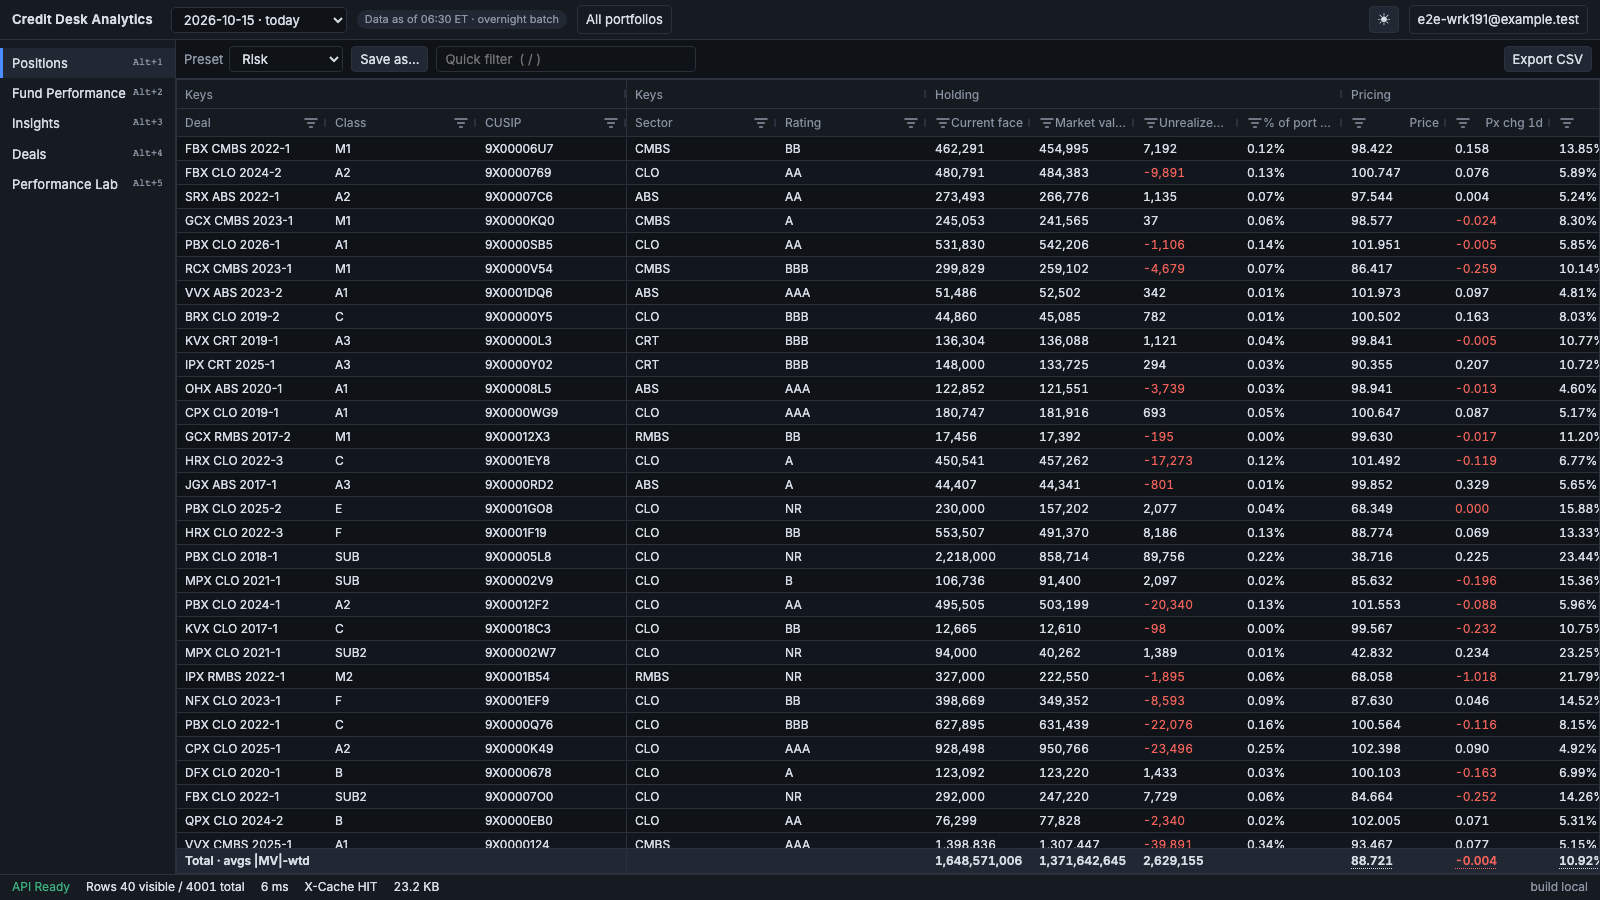
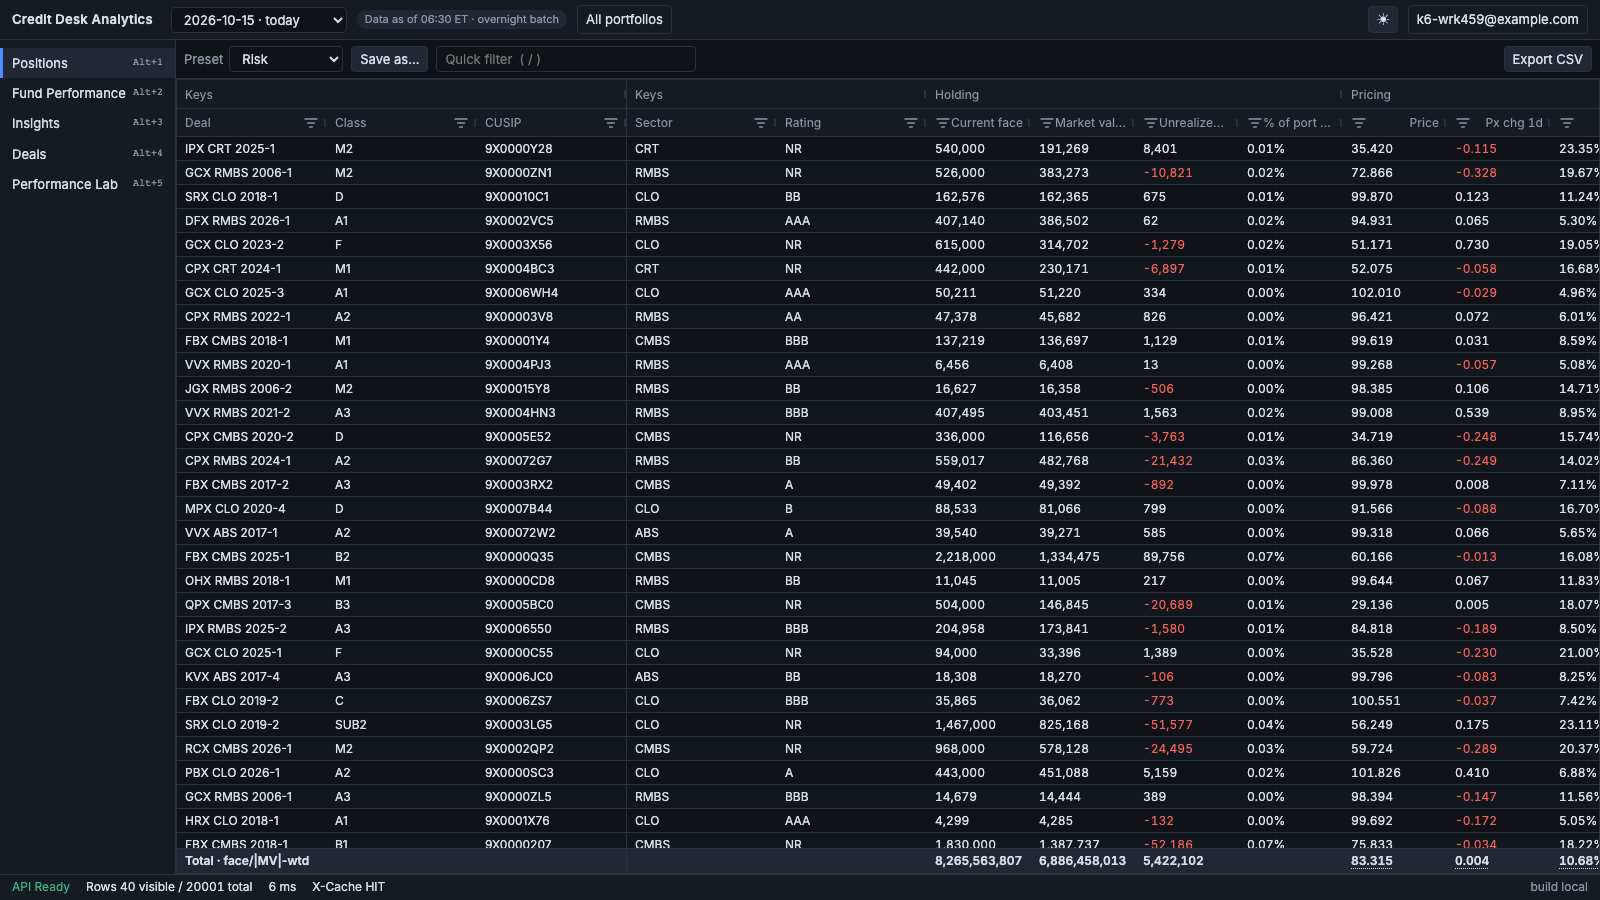
docs(adr): ADR-0006 addendum for face-weighted prices, README §6/§8/§10/§17 (#459)
The second stored weight, measured: perf/explain-summary-face-weight.sql
(evidence at scale 1.0) and interleaved k6 runs, main vs branch. README §8
states the price weighting and the unknown-aggregation fallback, §6 P1 the
new Total-row label, §10 the re-measured MISS, §17 the follow-up row.
Positions screenshots (dark, light) re-rendered with the Total-cell tooltip.

diff --git a/README.md b/README.md
@@ -296,7 +296,7 @@ Every page lists: **user story**, **API contract**, **SQL approach**, **front-en
 - AG Grid Community, `rowModelType: 'infinite'`, `cacheBlockSize: 200`, `maxBlocksInCache: 50`, `blockLoadDebounceMillis: 100`.
 - **Column virtualization on** (the default; never disable it).
 - `getRowId` = position_id.
-- Pinned left: deal_name, class, cusip. A pinned **bottom summary row**, labelled `Total · avgs |MV|-wtd`: its SUM cells are net (signed) and its averages are gross, weighted by \|market value\| (§8). Each Total cell's tooltip and each column header's tooltip name the aggregation (#191). Per-leg (long/short) and face-weighted totals are deferred to a later P3.
+- Pinned left: deal_name, class, cusip. A pinned **bottom summary row**, labelled `Total · face/|MV|-wtd`: its SUM cells are net (signed) and its averages are gross. Prices are weighted by \|current face\| (the par-weighted price), and every other average by \|market value\| (§8, #459). Each Total cell's tooltip and each column header's tooltip name the aggregation (#191). The label follows the served catalog: while it still weighs prices by \|MV\| (before #459's catalog update reaches a database), it reads `Total · avgs |MV|-wtd`. Per-leg (long/short, gross/net MV) totals are out of scope (Leo, 2026-10-16).
 - **Column presets:** per-user saved column state (order, width, visibility, pinned, sort, filters), loaded before the first request. Several named presets per user ("Risk", "Surveillance", "Scenarios", "All").
 - **Only the displayed columns are requested.** When the displayed column set changes (show/hide or preset switch), purge the infinite cache and re-request. For horizontal scrolling inside the displayed set, no request is needed.
 - **Quick filter box:** debounced at 300 ms, with `distinctUntilChanged` + `switchMap`, so a stale request is cancelled and can never overwrite a newer one.
@@ -342,8 +342,8 @@ Accept: application/json            (or application/x-msgpack, see ADR-0007)
 - **Whitelist:** column ids, sort ids and filter ids are resolved through the column catalog. Unknown ids are **dropped**, never concatenated into SQL. Every value is a parameter.
 - `position_id` is always included (the row id) and always appended to `ORDER BY` as a **deterministic tie-breaker** (otherwise offset paging duplicates or skips rows).
 - Block size is clamped to ≤ 500 rows, and displayed columns to ≤ 250.
-- **One round trip:** the page query and the totals query (`COUNT(*)` + per-column aggregates from the catalog: SUM, or |market value|-weighted average) are sent together (`QueryMultipleAsync` or a single batch).
-- **Weighting rule:** weights are `ABS(market_value)`; see §8 (#131).
+- **One round trip:** the page query and the totals query (`COUNT(*)` + per-column aggregates from the catalog: SUM, a |current face|-weighted average for prices, or a |market value|-weighted average) are sent together (`QueryMultipleAsync` or a single batch).
+- **Weighting rule:** prices weigh by `ABS(current_face)`, every other average by `ABS(market_value)`; see §8 (#131, #459).
 - **Paging:** `OFFSET … FETCH` by default. ADR-0008 evaluates keyset paging, which the Infinite Row Model's random-access jumps make harder, and records the measured trade-off at deep offsets.
 - **Caching:** the key is (as-of, canonicalized query JSON, user's portfolio entitlements). Entries live until the next as-of date. Support `If-None-Match` → **304**.
 - The `CancellationToken` flows to Npgsql, so scrolling past a block cancels its query. The command timeout is 10 s.
@@ -587,7 +587,7 @@ The **website is public** (anyone can reach the login page). The **data is not**
     - `ExecuteUpdateAsync` / `ExecuteDeleteAsync` for set-based writes.
     - Scoped lifetime per request; a factory for anything parallel or singleton-owned (no captive dependencies).
   - **Every async call takes the request's `CancellationToken`.** No `.Result`, `.Wait()` or `async void`.
-  - **Money is `decimal`** (`numeric` in SQL). Rounding happens only at the display edge. Weighted averages weigh each row by `ABS(market_value)`, the position's size, so shorts can't cancel longs (#131). Rows where the measure is `NULL` don't count toward the weight, and zero or no weight returns `null`, never `NaN`. `NaN` can't reach the summary: `market_value` and every column the summary sums or weights reject `'NaN'` at write time (CHECK constraints `ck_snapshot_<column>_not_nan` on the `numeric` columns, #192), the `float8` ones reject `'NaN'` and `±'Infinity'` (`ck_snapshot_<column>_finite`, #304), and a test fails if a new summed or weighted catalog column isn't guarded. SUM columns (`market_value`, `dv01`, `cs01`, `pnl_*`, …) stay signed (net). So the summary row mixes net sums with gross averages, and the grid labels it that way (§6 P1, #191).
+  - **Money is `decimal`** (`numeric` in SQL). Rounding happens only at the display edge. Weighted averages weigh each row by the position's size, so shorts can't cancel longs (#131): `ABS(market_value)` for every average except prices, and `ABS(current_face)` for prices (`Aggregation.WeightedByCurrentFace`: `price`, `book_price`, the `price_chg_*` changes, the 100 `scn_*` scenario prices, `worst_case_price`, `best_case_price` and `scenario_range`, #459). An \|MV\|-weighted price is Σp²f / Σpf; the face-weighted one is the par-weighted price desks quote. Both weights are stored generated `float8` columns (`weight_f8`, `face_weight_f8`), so the summary stays a plain parallel aggregate (ADR-0006). The same rules apply to both: rows where the measure is `NULL` don't count toward the weight, a `NULL` or zero weight counts for nothing, and zero or no weight returns `null`, never `NaN`. The API reads each column's aggregation from `app.column_catalog`; a name the running build doesn't know falls back to the \|MV\|-weighted average with a warning, so a catalog change that lands before the new app version can't fail `/api/meta`. `NaN` can't reach the summary: `market_value` and every column the summary sums or weights reject `'NaN'` at write time (CHECK constraints `ck_snapshot_<column>_not_nan` on the `numeric` columns, #192), the `float8` ones reject `'NaN'` and `±'Infinity'` (`ck_snapshot_<column>_finite`, #304), and a test fails if a new summed or weighted catalog column isn't guarded. SUM columns (`market_value`, `dv01`, `cs01`, `pnl_*`, …) stay signed (net). So the summary row mixes net sums with gross averages, and the grid labels it that way (§6 P1, #191).
 - **Serialization:**
   - Columnar DTOs (`columns` + `data[c][r]`).
   - `System.Text.Json` source generation for hot DTOs.
@@ -680,7 +680,7 @@ The **website is public** (anyone can reach the login page). The **data is not**
 |---|---|---|---|
 | P1 first block, "Risk" preset | ≤ 60 KB compressed | `perf/payload-size.mjs` against a running API | **CI fails** above budget |
 | P1 first block, "All" (200 cols) | ≤ 250 KB compressed | same | CI warns |
-| P1 API p95, cache MISS / HIT | ≤ 150 ms / ≤ 15 ms (local, warm); MISS for both the Risk and All presets | k6 `perf/positions.js`: the whole book's uncached first view (#129), HIT with `X-Cache: HIT` asserted | CI reports (`budgets` job step summary, scale 1.0); non-blocking until #87. **All preset (#241):** locally within budget (p95 61–83 ms, was 112–154 ms in the same interleaved runs); on the hosted CI runner p95 155.5 ms (was ≈ 249 ms), still just over. Whether the local budget also applies on hosted runners is open in #241, and #87 can't make this step required until it is decided (ADR-0006 addendum) |
+| P1 API p95, cache MISS / HIT | ≤ 150 ms / ≤ 15 ms (local, warm); MISS for both the Risk and All presets | k6 `perf/positions.js`: the whole book's uncached first view (#129), HIT with `X-Cache: HIT` asserted | CI reports (`budgets` job step summary, scale 1.0); non-blocking until #87. **All preset (#241):** locally within budget (p95 61–83 ms, was 112–154 ms in the same interleaved runs); on the hosted CI runner p95 155.5 ms (was ≈ 249 ms), still just over. Whether the local budget also applies on hosted runners is open in #241, and #87 can't make this step required until it is decided (ADR-0006 addendum). **#459** (prices' second stored weight, `face_weight_f8`): the All summary keeps its parallel plan, +0.3 ms at p50 in interleaved EXPLAIN rounds (29.9 → 30.2 ms), and k6 MISS stays within the run-to-run noise (ADR-0006 #459 addendum) |
 | P1 first rows painted | < 1.0 s warm | Playwright trace + `performance.mark` | Reported in the PR |
 | P2 response | < 300 ms, < 5 KB | k6 + payload script | Reported |
 | P3 first tile / all tiles | < 500 ms / < 1.5 s | Playwright | Reported |
@@ -1075,7 +1075,7 @@ Per-area CI ([ADR-0023](docs/adr/0023-per-area-ci-jobs.md)): a heavy job skipped
 | 2 Auth and limits | #105 | Merged; follow-up #198/#348/#265/#197: `perf-deps` CI job, wire-bytes check in budgets, temp-repo cleanup retry, Dependabot `/e2e` and `.config/dotnet-tools.json` (`[workflows]`, merged as #428, `a69c862`); follow-up #106: Render forwarded headers; follow-up #119: shell label, deterministic coverage; follow-up #160: client IP behind Cloudflare (#116); follow-up #175: client-address diagnostics (#165 step a, merged as `57c7cc9`); follow-up #367: per-client login key behind Render's private hops (#165 step b, merged as `a856d45`); follow-up #114: audit retention (90-day default, `AUDIT_RETENTION_DAYS`, ADR-0022), merged as #172 (`825315c`); follow-up #193: idle-period audit purge on a timer (`AUDIT_PURGE_CHECK_MINUTES`, ADR-0022), merged as #292 (`7b8557c`); follow-up #118: one password hash per failed login, `__Host-` antiforgery cookie behind the proxy, demo-account fixes (merged as #218, `7c43da4`); follow-up #230: 401 response-time floor (merged as #279, `09a5b01`); follow-up #306: the floor measured on the compose stack (merged as #340, `c01c678`); follow-up #361: rate-limit partitions and the export gate keyed on the account id (#185, merged as `69450fb`); follow-up #396: a session without an account id is refused with 401, never keyed on the client address (merged as `dc2762a`); follow-up #362: sign-in refused for an account with no role (#275, merged as `cde36d4`); follow-up #366: single-use refresh tokens, a replayed one ends the session (#353, merged as `5458c4d`); follow-up #113: the database probe at `/health/db`, anonymous, up or down only (merged as #365, `0573e10`); follow-up #184: a request queued for a database permit spends one token (merged as #358, `d0a5874`); follow-up #164: IPv6 clients keyed on their /64, IPv4-mapped on the IPv4 address (merged as #359, `ff08ded`); follow-up #143: guard that production config never carries the e2e rate-limit override (`[workflows]`, merged as #406, `77449cf`; `EXPORT_MAX_ROWS` clamp case merged as #420, `70a1c9d`); follow-up #313: UserAdmin lists lockout as the API decides it, on the injected clock (merged as #414, `dc1ad08`); follow-up #211: start-up warning when the DB permits don't fit the pool (merged as #412, `1d35b0a`); follow-up #245: LimitsTests waits for the limiter queue, not a fixed 100 ms (merged as #415, `133ef79`); follow-up #399 item 2: a session without an account id is not live (merged as #416, `9e47406`); follow-up #354: logouts and the refresh rotation persisted in Postgres (merged as #423, `0fa0da2`) |
 | Portfolio entitlements (per-user grants) | #417 | Merged (#122, `7fcb3f5`): `app.portfolio_grant`, `desk:portfolio` claims re-read at every refresh, `GrantedPortfolios` behind `ENTITLEMENTS_MODE=all\|grants` (default `all`), demo-account portfolios, UserAdmin `grant`/`revoke`, scoped/exempt guard on every `/api` path (#122, ADR-0021) |
 | GitHub Pages front end + bearer auth | #349 | Merged (`f8db7c2`): Identity bearer tokens, refresh, CORS, build-time API origin (ADR-0024); the Pages deploy workflow is #350 |
-| 3 Positions API | #121 | Merged; follow-up #125: CI budgets job; follow-up #136: `payload-size.mjs` fails closed on a short, empty or mis-shaped block (`[workflows]`, merged as #410, `7effd90`); follow-up #152: ADR-0009, block queries and meta GETs are server-cache-only (merged as #404, `c4721b5`); follow-up #277: export truncation signal and `Server-Timing` (merged as #408, `c6408fc`; dispose-and-rethrow coverage merged as #431, `4587021`); follow-up #181: `perf/LastBlockCheck` comparison extracted to `LastBlockComparison` and unit-tested in Desk.Data.Tests (in review); follow-up #326: `random_page_cost` 1.1 for the Neon app role, a runbook step (README §13.1, ADR-0008 addendum, `perf/explain-random-page-cost.sql`; in review, Neon apply and live EXPLAIN are Leo's) |
+| 3 Positions API | #121 | Merged; follow-up #125: CI budgets job; follow-up #136: `payload-size.mjs` fails closed on a short, empty or mis-shaped block (`[workflows]`, merged as #410, `7effd90`); follow-up #152: ADR-0009, block queries and meta GETs are server-cache-only (merged as #404, `c4721b5`); follow-up #277: export truncation signal and `Server-Timing` (merged as #408, `c6408fc`; dispose-and-rethrow coverage merged as #431, `4587021`); follow-up #181: `perf/LastBlockCheck` comparison extracted to `LastBlockComparison` and unit-tested in Desk.Data.Tests (in review); follow-up #326: `random_page_cost` 1.1 for the Neon app role, a runbook step (README §13.1, ADR-0008 addendum, `perf/explain-random-page-cost.sql`; in review, Neon apply and live EXPLAIN are Leo's); follow-up #459: face-weighted Total-row prices (`Aggregation.WeightedByCurrentFace` over a stored `face_weight_f8`, ADR-0006 addendum), expand step; the `app.column_catalog` data update follows once it is live (in review) |
 | 4 Shell + Positions UI | #140 | Merged; follow-up #141: CI e2e job; follow-up #137/#139/#155/#256/#257: budgets and e2e job hardening (`[workflows]`, merged as #413, `d0ef57c`); follow-up #252: the bundle budget measures Brotli as the API streams it (merged as #347, `5a2c3c8`); follow-up #337: the bundle budget keeps `<!--` inside `<title>`/`<textarea>` as text (merged as #401, `b1aee25`) |
 | 5 Fund Performance | #144 | Merged; follow-up #271: k6 `handleSummary()` replaces `--summary-export` in `perf/positions.js` and the budgets jq (`[workflows]`, merged as #427, `91a8d7e`) |
 | 6 Insights Board | #339 | Merged; follow-up #227: the coverage summary shows covered/total counts and slack (`[workflows]`, merged as #429, `1033bc1`); follow-up #357: insights source reads get their own per-user limiter partition (5 in flight, queue 15) so the P3 e2e is green under #174's cap (merged as #382, `929dcea`; supersedes #364) |

diff --git a/docs/adr/0006-dapper-vs-ef-for-the-dynamic-grid.md b/docs/adr/0006-dapper-vs-ef-for-the-dynamic-grid.md
@@ -202,3 +202,58 @@ docker run --rm -i --add-host=host.docker.internal:host-gateway -e BASE_URL=http
 - **SQL portability:** on SQL Server this would be a persisted computed column (README §16).
 - **Hosted CI runner** (`budgets` job, run 38934774373 on PR #460, ubuntu-24.04): MISS All p50 / p95 / max 143.0 / 155.5 / 186.3 ms (was 217.3 / 249.0 / 418.1 ms, #256), MISS Risk 45.5 / 57.2 ms (was 75.2 / 134.7 ms), HIT 1.4 / 2.0 ms, 39,969 checks passed and 0 failed. The hosted runner is ~2.5× slower than the local stack, so All is still 5.5 ms over the 150 ms p95 there. README §10 states the budget as "local, warm".
 - **What's left for #241:** decide whether the local budget also applies on hosted runners (Helms' 2026-10-08 ruling suggested hosted thresholds of about 1.3× local), or take a further optimisation. The summary is now near its scan-and-deform floor locally: the 23 numeric `SUM`s alone take 19 ms, and the full summary 30 ms. The next lever is running the page and the summary concurrently on two connections, worth roughly the page read (~6 ms locally). It takes two pooled connections per first view against a pool sized for Neon (`DB_MAX_POOL_SIZE`, default 20), so it needs its own decision.
+
+## Addendum (#459, 2026-10-16): a second stored weight for face-weighted prices
+
+**Problem.** Every summary average was |MV|-weighted, so the Total row's price was Σp·|MV| / Σ|MV|, which for a bond priced per 100 face is Σp²f / Σpf: not the par-weighted price a desk quotes. Leo's scope decision (2026-10-16) on #459: build only the face-weighted average for price-like columns, `Aggregation.WeightedByCurrentFace`, weighting by `abs(current_face)::float8` with the same NULL/zero rules. Per-leg (long/short, gross/net MV) footers are out of scope.
+
+**Options considered.**
+1. **A second stored generated column** `face_weight_f8 double precision GENERATED ALWAYS AS (abs(current_face)::float8) STORED`, read like `weight_f8` (chosen).
+2. **An inline cast** `abs(current_face)::float8` inside each price aggregate. It repeats the numeric→float8 cast per aggregate per row, the cost #241's first addendum measured at 2.4 s for 151 averages; the All preset has 108 price columns.
+3. **A `CROSS JOIN LATERAL (… OFFSET 0)`** computing both weights once per row. It brings back the nested loop that kept every aggregate in the leader (#241), which `WeightColumnTests` now fails on.
+
+**Which columns.** Every `ColumnKind.Price` column: `price`, `book_price`, the `price_chg_1d/1w/1m` changes, the 100 `scn_*` scenario prices, `worst_case_price`, `best_case_price` and `scenario_range` (108 of the 151 averages). Leo's list names price, book price and the scenario, worst and best prices; the price changes and the range go with them so the Total row stays consistent (Total best − Total worst = Total range, and the Total price change is a change of the Total price, when no value is NULL). `GridQueryTests` pins the rule: every Price-kind average is face-weighted, every other average |MV|-weighted.
+
+**Evaluation.** Seed 42, scale 1.0, 20,001 rows per as-of, Postgres 17 in Docker (colima, 4 vCPUs), Apple M5, on a laptop shared with other agents' workloads (load average 10–50 during the runs), so before and after always ran interleaved.
+
+`perf/explain-summary-face-weight.sql` (committed; output in `perf/evidence/explain-summary-face-weight-scale1.txt`): the All summary (23 `SUM`s, 43 |MV|-weighted and 108 face-weighted averages) with one weight for every average (before) and with the prices' second weight (after), 30 interleaved rounds after one warm-up, the planner's own plan:
+
+| Run | Variant | Plan | min ms | p50 ms | p95 ms |
+|---|---|---|---:|---:|---:|
+| 1 (load ≈ 45) | \|MV\| weight only (before) | Finalize Aggregate → Gather (2 workers) → Partial Aggregate → Parallel Seq Scan | 40.0 | 69.2 | 189.2 |
+| 1 | **prices by \|face\| (after)** | the same | 39.6 | 72.4 | 139.5 |
+| 2 (load ≈ 23) | \|MV\| weight only (before) | the same | 26.9 | 29.9 | 44.7 |
+| 2 | **prices by \|face\| (after)** | the same | 27.0 | 30.2 | 46.8 |
+
+Reading a second stored column costs about 0.3 ms at p50 (1%), within noise, and the plan stays parallel.
+
+k6 end to end (`perf/positions.js`, one VU, 30 s per scenario): main @3d55669 and this branch as two compose apps, each against its own database (both migrated and seeded alike on the same Postgres, so main's app reads a catalog it knows), alternating main, branch:
+
+| Round | Build | MISS Risk p50 / p95 ms | HIT p50 / p95 ms | MISS All p50 / p95 ms | All ≤ 150 ms? |
+|---|---|---:|---:|---:|---|
+| 1 | main | 27.8 / 65.1 | 2.5 / 9.3 | 131.3 / 281.4 | no |
+| 1 | **branch** | 21.2 / 52.6 | 1.1 / 2.9 | **48.4 / 74.3** | **yes** |
+| 2 | main | 15.6 / 26.3 | 1.0 / 1.5 | 56.8 / 153.8 | no |
+| 2 | **branch** | 21.0 / 45.2 | 4.9 / 25.0 | **93.5 / 223.6** | **no** |
+| 3 | main | 22.7 / 59.4 | 2.2 / 8.6 | 71.7 / 143.2 | yes |
+| 3 | **branch** | 17.5 / 54.7 | 1.5 / 5.1 | **60.1 / 122.6** | **yes** |
+
+Every check passed in all six runs (k6 exited 99 only for crossed latency thresholds). The machine's load swung between 10 and 50 within single runs, which is where the spread comes from: the branch is faster in rounds 1 and 3 and slower in round 2, with no consistent direction. The EXPLAIN rounds above isolate the summary's cost; on the quieter machine of #241's runs, All MISS p95 was 61–83 ms, and the second weight adds about 1% to the summary.
+
+```
+# local stack only: compose -p wrk459 (own ports), seed 42 --scale 1.0 into two databases, a throwaway viewer
+# from Desk.UserAdmin in each, RATE_LIMIT_PER_USER_PER_MIN/BURST raised in both apps' environments only
+docker exec -i <postgres container> sh -c 'psql -U "$POSTGRES_USER" -d "$POSTGRES_DB" -q' < perf/explain-summary-face-weight.sql
+docker run --rm -i --add-host=host.docker.internal:host-gateway -e BASE_URL=http://host.docker.internal:<port> \
+  -e DESK_EMAIL=… -e DESK_PASSWORD=… grafana/k6:2.3.0 run --quiet - < perf/positions.js
+```
+
+**Decision.**
+- Migration `SnapshotFaceWeightColumn` adds the stored generated column; `GridSqlBuilder.Aggregate` reads `face_weight_f8` for `WeightedByCurrentFace` and `weight_f8` for every other average, with the same text and NULL/zero rules (README §8).
+- `MigrationTests` pins the frozen expression to `GridSqlBuilder.FaceWeightExpression`; `WeightColumnTests` checks the stored values and the write guard, and that the All summary, which now reads both weights, still plans as a parallel partial aggregate. `WeightedAverageTests` evaluates the price aggregate in Postgres over mixed-sign, zero and NULL faces.
+
+**Consequences.**
+- **Deploy, in two steps (expand, then the data).** The API reads each column's aggregation from `app.column_catalog`, seeded data, not from `ColumnCatalog`. Deploy runs migrate → seed → Render hook, so the app that is live during a deploy reads the catalog first. That app parsed the name with `Enum.Parse` and would fail every meta load on `WeightedByCurrentFace`. And a `SeedVersion` bump would reseed a full book, which the 512 MB reseed cap refuses (README §10). So this change ships as expand only: the column, the builder, the enum value, the code catalog (fresh seeds, the tests and CI's stacks are face-weighted) and a `MetaRepository` that falls back to the |MV|-weighted average, with a warning, for a name it doesn't know. Production's catalog keeps `WeightedByMarketValue` for prices, so its Total row stays |MV|-weighted and labelled that way (the labels follow the served aggregation). A follow-up data migration then updates those `app.column_catalog` rows once this build is live, and the live app picks them up within its 10-minute meta revalidation. From then on, an aggregation added this way can't fail `/api/meta` during a deploy.
+- **The `ALTER` rewrites the snapshot** under an ACCESS EXCLUSIVE lock, as `SnapshotWeightColumn` did (0.73–1.8 s at scale 1.0), briefly blocking grid reads during the migrate step. Derived data, filled by the `ALTER` itself, so no `SeedVersion` bump; Down drops the column.
+- **Size:** `core.position_snapshot` measured 77,709,312 bytes (74 MB, `pg_total_relation_size`) at scale 1.0 both with and without `face_weight_f8`, to the byte. The whole seeded database was 286 MB either way. Seeding is unchanged.
+- **SQL portability:** a second persisted computed column on SQL Server (README §16).
